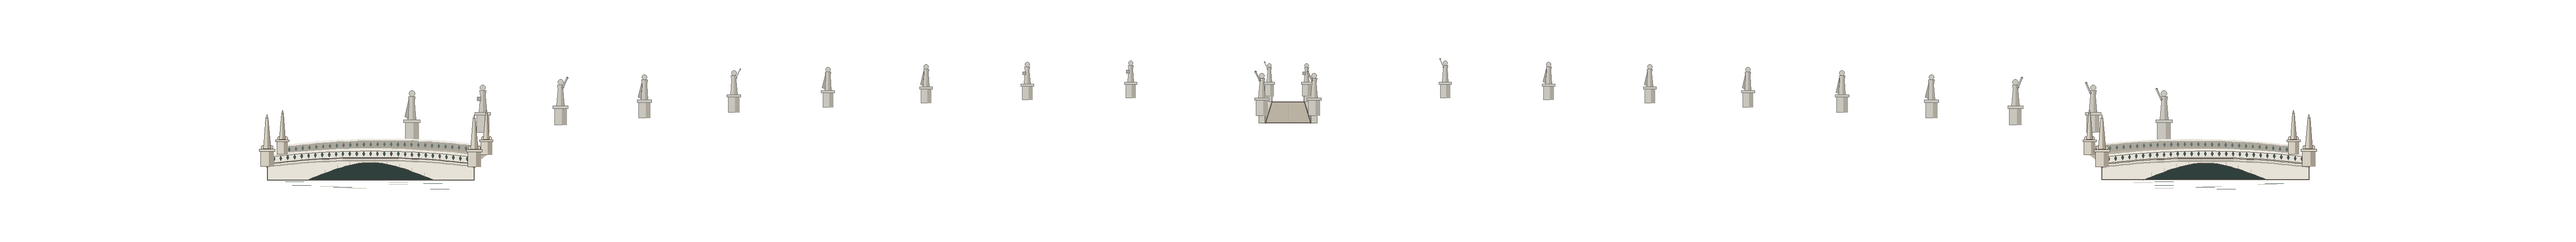
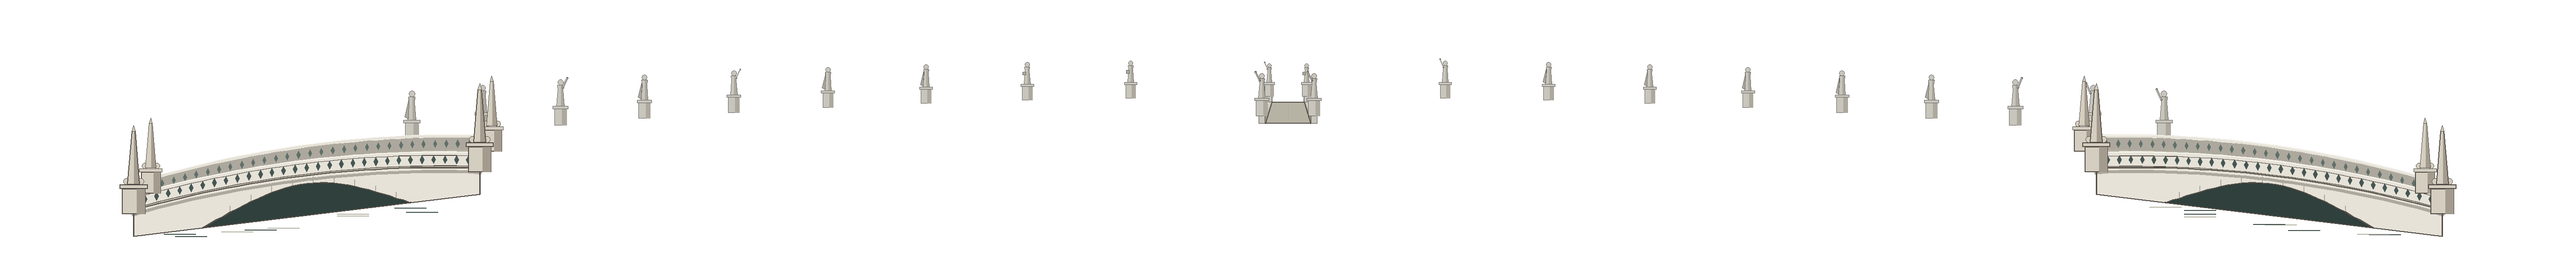
Padova: i ponti est e ovest dall'angolo della piazza alla sponda di fuori, più grandi (#378)
Claude-Session: https://claude.ai/code/session_01Bf1d2rFJnp9n4pFf7DSqn4

diff --git a/src/shared/stages.ts b/src/shared/stages.ts
@@ -539,7 +539,7 @@ export const STAGES: Record<string, StageSpec> = {
         // Il canale dietro e attorno all'isola (#378), le anse ai lati, la fila di statue sulla sponda di là e i ponticelli
         { file: "canale-dietro.png", x: 960, y: 644, floatersAfter: true },
         { file: "ansa.png", x: 960, y: 604 },
-        { file: "ponticelli.png", x: 960, y: 600 },
+        { file: "ponticelli.png", x: 960, y: 640 },
         // il parco oltre il vialetto, ai lati: i platani più lontani, più piccoli
         { file: "platano.png", x: -330, y: 566, scale: 0.3 },
         { file: "platano.png", x: 2250, y: 566, scale: 0.3, flip: true },

diff --git a/tools/arene/padova.py b/tools/arene/padova.py
@@ -1726,37 +1726,38 @@ def _obelisk(t, x, base, s, ink):
     t.poly([(x - 1.2 * s, base - 52 * s), (x + 1.2 * s, base - 52 * s), (x, base - 56 * s)], fill=stone, ink=True, width=0.4 * s, ink_col=ink)
 
 
-def _side_bridge(t, p_in, p_out, rng):
+def _side_bridge(t, p_in, p_out, rng, k=1.0):
     """Un ponte del Prato in prospettiva (#378, come quelli veri): va dalla punta dell'isola (p_in) alla sponda di fuori
     (p_out), sull'asse lungo dell'ovale. Si vede il piano del ponte dall'alto tra i due
     parapetti, quello di là più in alto e quello di qua davanti; sotto il parapetto di qua, la faccia del ponte con
-    l'arco sull'acqua, i conci e la chiave; ai quattro capi i piedistalli con gli obelischi, come i ponti est e ovest."""
+    l'arco sull'acqua, i conci e la chiave; ai quattro capi i piedistalli con gli obelischi, come i ponti est e ovest. k ingrandisce
+    tutto il ponte: quelli vicini alla telecamera sono più grandi."""
     stone, stone_sh, stone_l, ink = (230, 226, 216, 255), (176, 170, 158, 255), (246, 244, 236, 255), (84, 78, 72, 255)  # bianchi
-    hump = 7
+    hump = 9 * k
     n = 30
 
     def along(u, far=False, lift=0.0):  # un punto del ponte: u da 0 (isola) a 1 (sponda), sul bordo di qua o di là
         x = p_in[0] + (p_out[0] - p_in[0]) * u
         y = p_in[1] + (p_out[1] - p_in[1]) * u - hump * math.sin(math.pi * u) ** 0.8 - lift
         if far:  # il bordo di là: più in alto e un po' verso il punto di fuga, al centro dell'arena
-            x, y = x + (960 - x) * 0.015, y - 11
+            x, y = x + (960 - x) * 0.015, y - 11 * k
         return (x, y)
 
     near = [along(i / n) for i in range(n + 1)]
     far_ = [along(i / n, True) for i in range(n + 1)]
     # il parapetto di là, dietro al piano: la stessa lastra traforata, vista da dietro e in ombra
-    t.poly([(x, y) for x, y in far_] + [(x, y - 8) for x, y in reversed(far_)], fill=stone_sh)
+    t.poly([(x, y) for x, y in far_] + [(x, y - 8 * k) for x, y in reversed(far_)], fill=stone_sh)
     for i in range(1, n, 1):
         x, y = far_[i]
-        t.poly([(x, y - 6.4), (x + 1.2, y - 4), (x, y - 1.6), (x - 1.2, y - 4)], fill=(96, 112, 106, 255))
-    t.line([(x, y - 9) for x, y in far_], fill=stone, width=2.2)
-    t.line([(x, y - 9.6) for x, y in far_], fill=stone_l, width=0.6)
+        t.poly([(x, y - 6.4 * k), (x + 1.2 * k, y - 4 * k), (x, y - 1.6 * k), (x - 1.2 * k, y - 4 * k)], fill=(96, 112, 106, 255))
+    t.line([(x, y - 9 * k) for x, y in far_], fill=stone, width=2.2 * k)
+    t.line([(x, y - 9.6 * k) for x, y in far_], fill=stone_l, width=0.6 * k)
     # il piano del ponte, visto dall'alto: lastre di pietra
     t.poly(near + list(reversed(far_)), fill=(184, 176, 160, 255))
     for i in range(1, n, 3):
-        t.line([near[i], far_[i]], fill=(160, 152, 138, 255), width=0.5)
+        t.line([near[i], far_[i]], fill=(160, 152, 138, 255), width=0.5 * k)
     # la faccia di qua: dal bordo giù fino all'acqua, con l'arco in mezzo
-    water = [(x, y + hump * math.sin(math.pi * i / n) ** 0.8 + 16) for i, (x, y) in enumerate(near)]
+    water = [(x, y + hump * math.sin(math.pi * i / n) ** 0.8 + 16 * k) for i, (x, y) in enumerate(near)]
     face = near + list(reversed(water))
     t.poly(face, fill=stone)
     arch = []
@@ -1764,42 +1765,42 @@ def _side_bridge(t, p_in, p_out, rng):
         u = 0.2 + 0.6 * i / n
         x, y = along(u)
         wy = water[int(u * n)][1]
-        arch.append((x, wy - (wy - y - 5) * math.sin(math.pi * (u - 0.2) / 0.6)))
+        arch.append((x, wy - (wy - y - 5 * k) * math.sin(math.pi * (u - 0.2) / 0.6)))
     t.poly([water[int(0.2 * n)]] + arch + [water[int(0.8 * n)]], fill=(48, 64, 60, 255))
     for i in range(2, n - 1, 3):
         x, y = arch[i]
-        t.line([(x, y), (x, y - 4)], fill=stone_sh, width=0.7)
-    t.line(arch, fill=ink, width=0.8)
-    t.line([(x, y + 2.5) for x, y in near], fill=stone_sh, width=2.2)  # la cornice sotto il parapetto
-    t.poly(face, ink=True, width=0.8, ink_col=ink)
+        t.line([(x, y), (x, y - 4 * k)], fill=stone_sh, width=0.7 * k)
+    t.line(arch, fill=ink, width=0.8 * k)
+    t.line([(x, y + 2.5 * k) for x, y in near], fill=stone_sh, width=2.2 * k)  # la cornice sotto il parapetto
+    t.poly(face, ink=True, width=0.8 * k, ink_col=ink)
     for i in range(9):  # il riflesso del ponte nell'acqua
         wx, wy = water[int(n * (0.1 + 0.8 * rng.random()))]
-        t.line([(wx - 10, wy + 2 + i), (wx + 10, wy + 2 + i)], fill=(166, 186, 178, 255) if i % 2 else (60, 78, 72, 255), width=0.6)
+        t.line([(wx - 10 * k, wy + 2 * k + i), (wx + 10 * k, wy + 2 * k + i)], fill=(166, 186, 178, 255) if i % 2 else (60, 78, 72, 255), width=0.6 * k)
     # il parapetto di qua, davanti: una lastra bianca traforata a quadrifogli (come i ponti veri), che segue la gobba
-    panel = [(x, y - 1) for x, y in near] + [(x, y - 9) for x, y in reversed(near)]
+    panel = [(x, y - 1 * k) for x, y in near] + [(x, y - 9 * k) for x, y in reversed(near)]
     t.poly(panel, fill=stone)
     for i in range(1, n, 1):
         x, y = near[i]
-        yc = y - 5
-        t.poly([(x, yc - 2.6), (x + 1.4, yc), (x, yc + 2.6), (x - 1.4, yc)], fill=(70, 86, 82, 255))  # il traforo
-    t.poly(panel, ink=True, width=0.5, ink_col=ink)
-    t.line([(x, y - 9) for x, y in near], fill=stone, width=2.6)
-    t.line([(x, y - 9.8) for x, y in near], fill=stone_l, width=0.8)
-    t.line([(x, y - 7.6) for x, y in near], fill=ink, width=0.5)
+        yc = y - 5 * k
+        t.poly([(x, yc - 2.6 * k), (x + 1.4 * k, yc), (x, yc + 2.6 * k), (x - 1.4 * k, yc)], fill=(70, 86, 82, 255))  # il traforo
+    t.poly(panel, ink=True, width=0.5 * k, ink_col=ink)
+    t.line([(x, y - 9 * k) for x, y in near], fill=stone, width=2.6 * k)
+    t.line([(x, y - 9.8 * k) for x, y in near], fill=stone_l, width=0.8 * k)
+    t.line([(x, y - 7.6 * k) for x, y in near], fill=ink, width=0.5 * k)
     # gli obelischi ai capi: quelli di là più piccoli e più in alto
     for u in (0.0, 1.0):  # gli obelischi alti e bianchi ai capi, come sui ponti est e ovest del Prato
         fx, fy = along(u, True)
-        _obelisk(t, fx, fy, 0.85, ink)
+        _obelisk(t, fx, fy, 0.85 * k, ink)
         nx, ny = along(u)
-        _obelisk(t, nx, ny + 2, 1.0, ink)
+        _obelisk(t, nx, ny + 2 * k, 1.0 * k, ink)
 
 
 def bridges_and_statues(name):
     """Le statue sulla sponda di là del canale e i ponticelli (#378, chiesto da Riccardo): la fila di statue del Prato
     lungo tutto l'ovale, più piccole lontano; il ponticello dietro la fontana visto di fronte, e i due alle punte
     dell'isola visti di fianco, che portano alla sponda di fuori. Sono dietro la piazza: non ci si cammina sopra.
-    Prop dietro in x 960, y 600, a 2x: x -420..2340, y 340..600."""
-    x0, y0, w, h = -420, 340, 2760, 260
+    Prop dietro in x 960, y 640, a 2x: x -420..2340, y 340..640."""
+    x0, y0, w, h = -420, 340, 2760, 300
     t = Tela(w, h, origin=(x0, y0), ss=1)
     cx, cy, rx, ry = CANAL_OVAL
     rng = rand(3786)
@@ -1830,14 +1831,14 @@ def bridges_and_statues(name):
             t.rect(px - 6 * sc, py - 14 * sc, px + 6 * sc, py, fill=stone, ink=True, width=0.5, ink_col=ink)
             ring_statue(t, px, py - 14 * sc, sc, rng, hz)
     t.poly(deck, ink=True, width=0.8, ink_col=ink)
-    # i ponti est e ovest sull'asse lungo dell'ovale, come quelli veri: dalla punta dell'isola dritti verso fuori, sopra
-    # l'acqua del canale, fino al vialetto della sponda di fuori. Visti dal lato lungo: il fianco con l'arco di qua, il
-    # piano un po' dall'alto e il parapetto di là più su
+    # i ponti est e ovest (#378, chiesto da Riccardo): vicini alla telecamera e allineati con la striscia dove si
+    # combatte, dalla punta della piazza (y 520) dritti verso fuori fino al vialetto della sponda; più grandi perché vicini
+    # (dallo schizzo di Riccardo): partono dall'angolo della piazza e scendono verso la sponda di fuori, che lì gira
+    # verso di noi, con la gobba alta
     for side in (-1, 1):
-        y = 517
-        p_in = (960 + side * 872, y)
-        p_out = (oval_edge_x(y, side) + side * 22, y)
-        _side_bridge(t, p_in, p_out, rng)
+        p_in = (960 + side * 866, 521)
+        p_out = (oval_edge_x(566, side) + side * 30, 566)
+        _side_bridge(t, p_in, p_out, rng, 1.7)
     t.save(OUT, name, colors=256)
 
 
